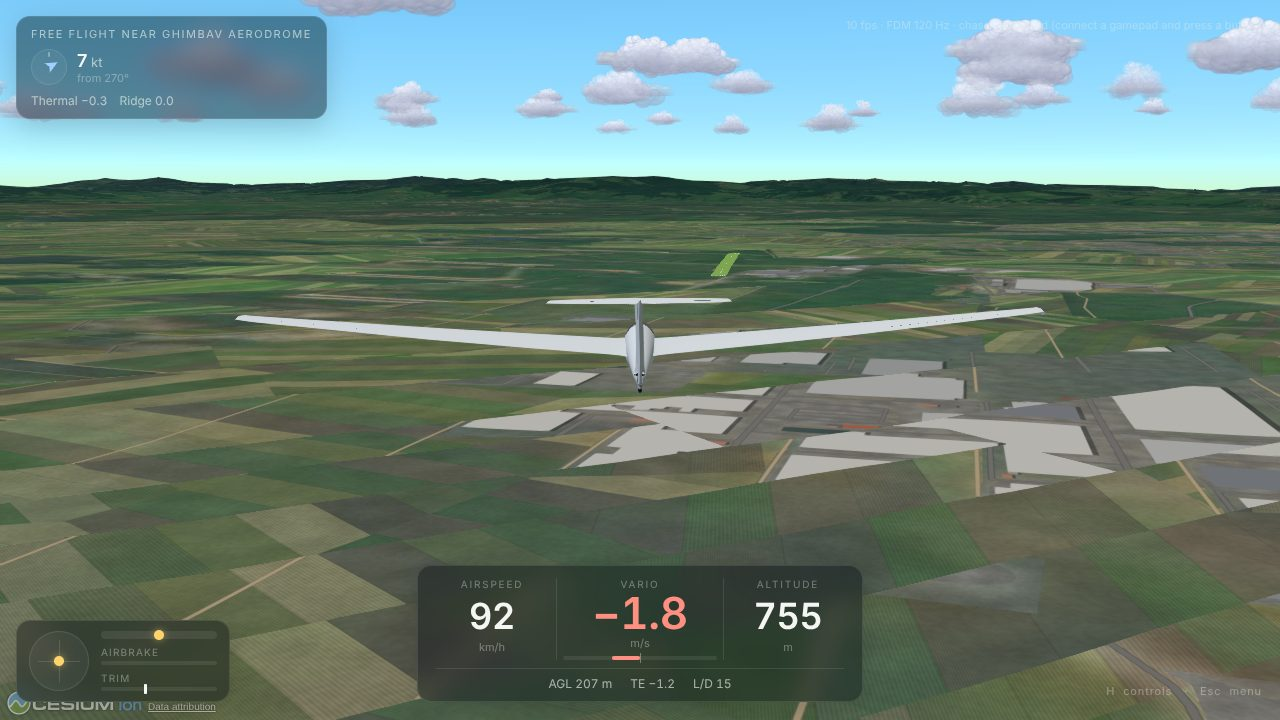
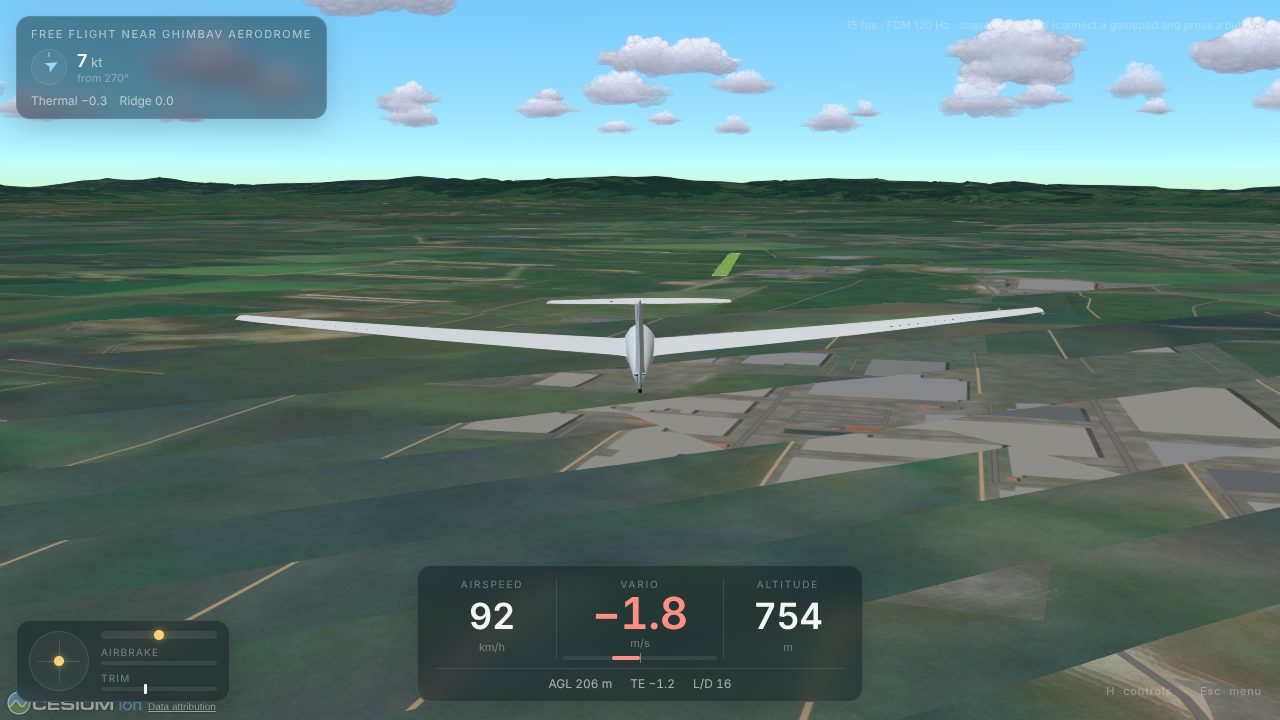
Detail layer: subtler grass runway; docs match the sharpen-not-invent approach
Claude-Session: https://claude.ai/code/session_01Gkrw4JEEshtmUBEjEhXiiF

diff --git a/apps/web/src/detail/detail-worker.ts b/apps/web/src/detail/detail-worker.ts
@@ -254,7 +254,7 @@ async function compose(q: DetailRequest): Promise<ImageBitmap> {
       }
       const width = cls === "runway" ? 30 : 12;
       if (grass) {
-        ctx.strokeStyle = "rgba(160, 186, 108, 0.4)";
+        ctx.strokeStyle = "rgba(128, 148, 96, 0.22)"; // mown: a shade lighter, not a painted band
         ctx.lineWidth = w(width);
         ctx.stroke();
       } else {

diff --git a/docs/world.md b/docs/world.md
@@ -68,11 +68,12 @@ Where no free orthophotos exist, the only photo layer is Sentinel-2 (10 m pixels
 from a glider at circuit height. A detail imagery layer (zoom 15–18, `detail/`) composes each
 tile in workers:
 
-1. the Sentinel-2 colours, upsampled and levelled;
-2. detail synthesized from them (`synth.ts`), anchored to world coordinates so tiles join and
-   every visit looks the same: strip fields with crop tones, furrows and grassy margins
-   (the Eastern European pattern), forest canopy with sun shadows, grass grain, paved yards
-   around buildings;
+1. the Sentinel-2 image, upsampled edge-aware (each pixel snapped toward the nearer of the
+   two dominant colours of its 10 m neighbourhood, so real field edges, forest margins and
+   roads become crisp where the data puts them) and levelled;
+2. fine texture a 10 m pixel can't carry (`synth.ts`, world-anchored): crop grain, forest
+   canopy with sun shadows, grass, paved yards around buildings. Nothing is invented at the
+   scale of fields (an earlier version drew made-up strip fields; they fought the real layout);
 3. OpenStreetMap drawn crisp on top: water and waterways, roads (asphalt or dirt from the
    surface tag), railways, rooftops with shadows, runways (surface from OSM, else the
    matching OurAirports runway, else the satellite colour).
@@ -81,10 +82,6 @@ It is purely visual; the simulation never reads it. `?detail=0` turns it off;
 `detail-preview.html?lat=…&lon=…&z=16` renders tiles for tuning. In Romania, ANCPI's
 orthophotos are layered on top when the geoportal answers (it is discovered at runtime; it
 did not answer from outside Romania).
-
-Sentinel-2 alone (left) and with synthesized detail (right), near Ghimbav, zoom 16:
-
-![Before and after](img/detail-before-after.jpg)
 
 From the glider at 220 m:
 
